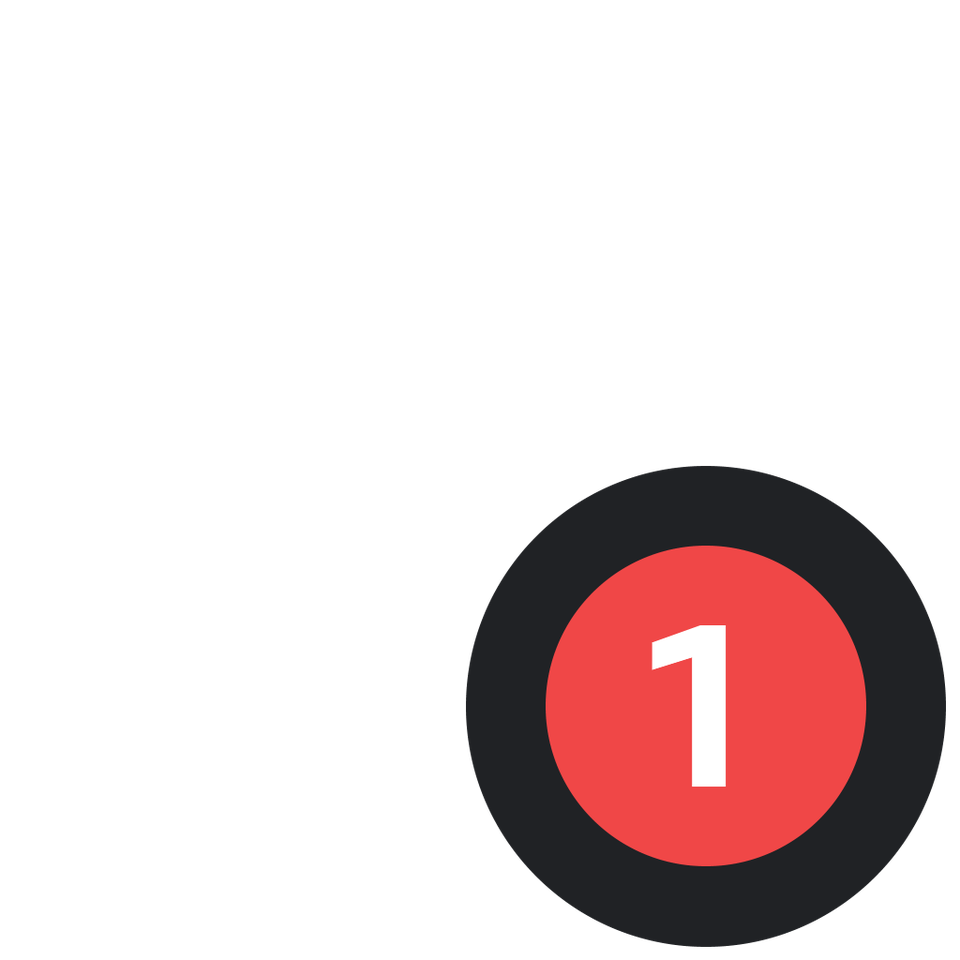
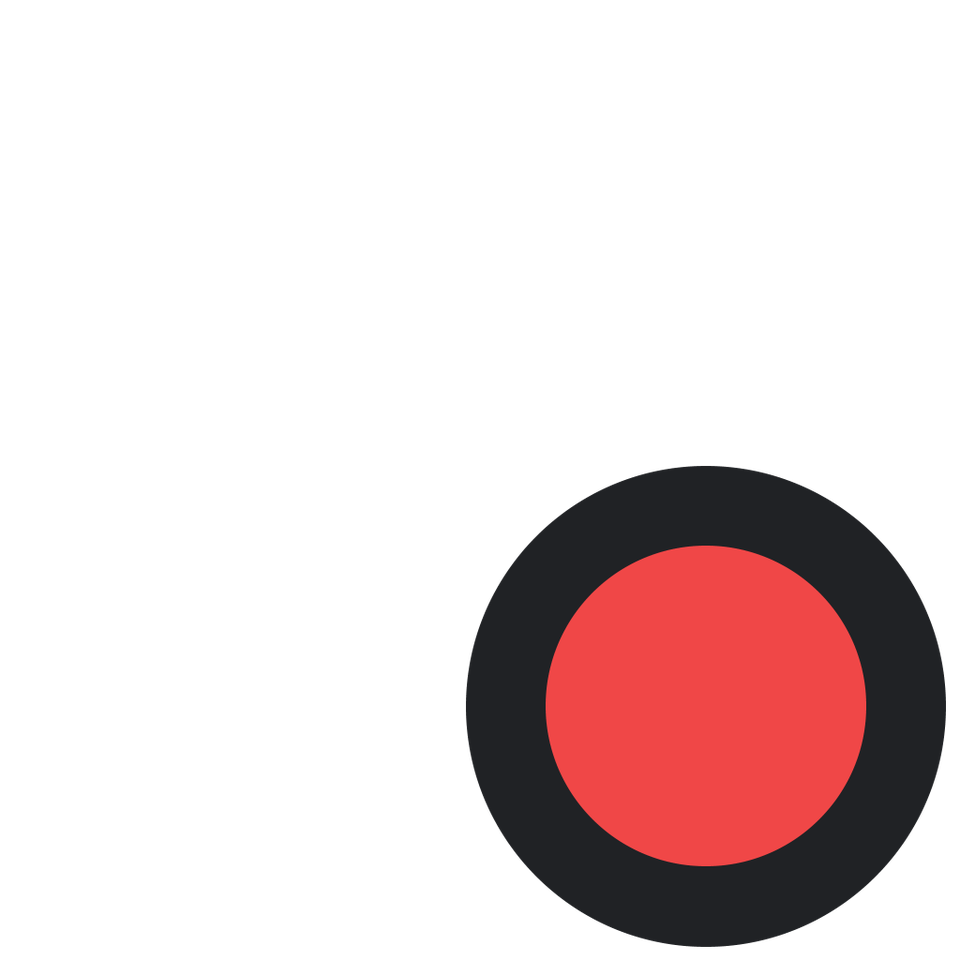
Can now change the number with Fake Ping command

Changed region(s): [[0.6562, 0.625, 0.7812, 0.8438]]

diff --git a/cogs/images/fakeping.py b/cogs/images/fakeping.py
@@ -2,7 +2,7 @@ from io import BytesIO
 
 import discord
 import requests
-from PIL import Image, UnidentifiedImageError
+from PIL import Image, UnidentifiedImageError, ImageFont, ImageDraw
 from discord.ext import commands
 
 
@@ -10,9 +10,9 @@ class Images(commands.Cog):
     def __init__(self, bot):
         self.bot = bot
 
-    @commands.command(name="fakeping")
-    @commands.cooldown(1, 10, commands.BucketType.user)
-    async def fake_ping(self, ctx, url: str):
+    @commands.command(name="fakeping", aliases=["pingfake"])
+    @commands.cooldown(1, 3, commands.BucketType.user)
+    async def fake_ping(self, ctx, url: str, num=1):
         """Create a fake ping image"""
 
         try:
@@ -23,16 +23,21 @@ class Images(commands.Cog):
                 with Image.open(buffer) as im:
                     im = im.convert("RGBA")
 
-                    im_ping = Image.open("./resources/images/template_ping.png").convert('RGBA')
-                    im_ping = im_ping.resize((im.width, im.height))
+                    font_size = 28
+                    font = ImageFont.truetype(f'./resources/fonts/whitney.ttf', size=font_size)
+
+                    im_ping = Image.open("./resources/images/template_ping.png").convert('RGBA').resize((128, 128))
+                    im = im.resize((im_ping.width, im_ping.height))
 
                     ping_loc = (0, 0)
-
                     alpha_layer = Image.new('RGBA', im.size, (0, 0, 0, 0))
                     alpha_layer.paste(im_ping, ping_loc)
 
                     im = Image.alpha_composite(im, alpha_layer)
                     im = im.convert("RGB")
+
+                    draw = ImageDraw.Draw(im)
+                    draw.text((87, 77), str(num)[:1], fill=0xffffff, font=font)
 
                     final_buffer = BytesIO()
                     im.save(final_buffer, "png")
